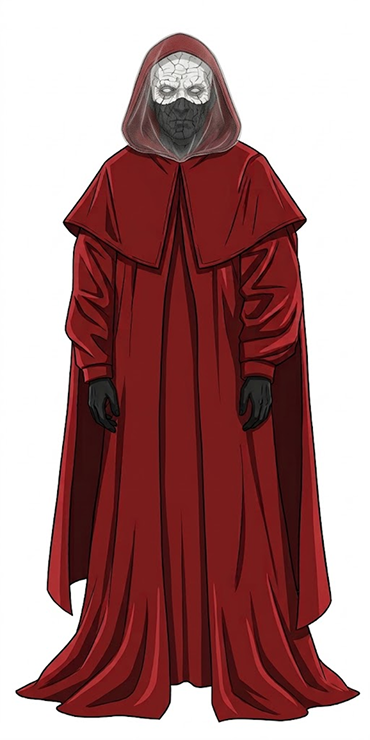
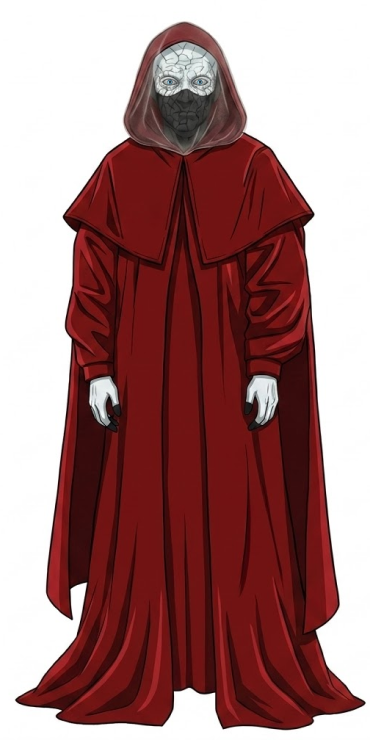
Adicionando mais descrições de personagens

Changed region(s): [[0.0297, 0.0311, 0.9811, 0.9946], [0.1486, 0.5905, 0.1784, 0.6838]]

diff --git a/src/data/characters.ts b/src/data/characters.ts
@@ -14,7 +14,7 @@ export const characters: Character[] = [
     name: 'Torchbearer',
     imageUrl: 'torchbearer.png',
     accentColor: '#E5CC0A',
-    description: 'Torchbearer é o segundo protagonista...',
+    description: 'O Torchbearer é o líder espiritual e tático dos Banditos, o grupo rebelde que luta contra o controle imposto pelos Bishops sobre a cidade de Dema. Interpretado por Josh Dun, ele veste as cores verde-oliva e amarelo características dos Banditos. O amarelo é usado justamente porque os Bishops não conseguem enxergar essa cor, o que faz dela um símbolo de esperança e invisibilidade contra o regime.\n Enquanto Clancy representa a luta interna da mente, o Torchbearer representa o suporte externo necessário pra sobreviver à jornada por Trench, ele guia Clancy, aparecendo nos momentos de fuga pra oferecer luz e direção em meio à escuridão da cidade murada.\n Sua real natureza é um dos grandes mistérios da lore: o Clancy que acompanhava o protagonista durante o isolamento na ilha de Voldsøy era apenas uma projeção, criada para guiá-lo de volta ao continente, revelando que o verdadeiro Torchbearer estava, o tempo todo, construindo e liderando o exército dos Banditos em Trench',
     faction: 'Banditos',
   },
   {
@@ -22,7 +22,7 @@ export const characters: Character[] = [
     name: 'Nico',
     imageUrl: 'nico.png',
     accentColor: '#C41E1E',
-    description: 'Torchbearer é o segundo protagonista...',
+    description: 'Nico é o líder dos nove Bishops que governam Dema, e o principal antagonista de toda a lore construída pela Twenty One Pilots. Seu nome completo, Nicolas Bourbaki, é revelado na música "Morph", mas sua identidade mais significativa vai muito além do título de Bishop: Nico é, na verdade, a representação física de Blurryface, o personagem que simboliza as inseguranças e a depressão de Tyler Joseph, introduzido no álbum homônimo de 2015.\n É Nico quem persegue incansavelmente Clancy sempre que ele tenta escapar de Dema, rastreando-o e trazendo-o de volta à cidade através de uma tática chamada "smearing", que deixa marcas escuras no pescoço e nas mãos de quem é capturado. Como líder dos Bishops, ele comanda um sistema onde cada um controla um distrito de Dema, sempre prontos pra impedir qualquer tentativa de fuga dos cidadãos.\n Diferente de Keons, outro Bishop conhecido por ser mais calmo e gentil com seus liderados, Nico é notoriamente tirânico, encarnando o próprio conflito interno que dá origem a toda a narrativa: a luta constante entre a esperança de liberdade dos Banditos e o peso simbólico de Blurryface tentando manter tudo sob controle.',
     faction: 'Bishops',
   },
   {

diff --git a/src/App.tsx b/src/App.tsx
@@ -71,8 +71,8 @@ function App() {
           <h2 style={{fontSize: '50px', fontFamily: 'Anton, sans-serif'}}>SOBRE</h2>
           <p>
             Formada em Columbus, Ohio, em 2009, a Twenty One Pilots nasceu como trio antes de se consolidar na dupla que conhecemos hoje: Tyler Joseph, vocalista, tecladista e compositor principal, e Josh Dun, baterista, que entrou pra banda em 2011. <br />
-            O som da dupla é difícil de encaixar numa única categoria — misturam rock alternativo, hip hop, eletrônico e pop, muitas vezes dentro da mesma música. Essa recusa em seguir fórmulas é parte da identidade deles desde o início, assim como os shows ao vivo intensos e as máscaras e figurinos que carregam significado dentro do universo que construíram. <br />
-            Mais do que uma discografia, a Twenty One Pilots criou uma narrativa contínua que atravessa seus álbuns — personagens, símbolos e uma cidade fictícia chamada Dema formam uma lore que os fãs vêm decifrando junto com a banda há mais de uma década. Cada disco, de Vessel (2013) a Clancy (2024), adiciona uma nova camada a essa história.
+            O som da dupla é difícil de encaixar numa única categoria, misturam rock alternativo, hip hop, eletrônico e pop, muitas vezes dentro da mesma música. Essa recusa em seguir fórmulas é parte da identidade deles desde o início, assim como os shows ao vivo intensos e as máscaras e figurinos que carregam significado dentro do universo que construíram. <br />
+            Mais do que uma discografia, a Twenty One Pilots criou uma narrativa contínua que atravessa seus álbuns, personagens, símbolos e uma cidade fictícia chamada Dema formam uma lore que os fãs vêm decifrando junto com a banda há mais de uma década. Cada disco, de Vessel (2013) a Clancy (2024), adiciona uma nova camada a essa história.
           </p>
         </div>
       </section>
